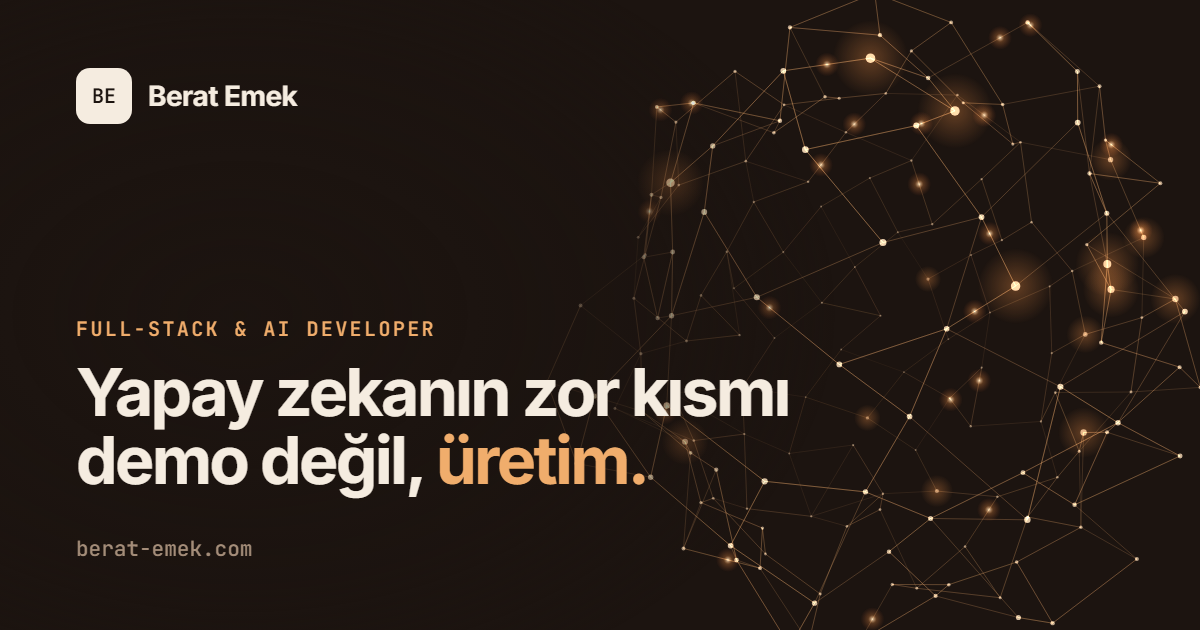
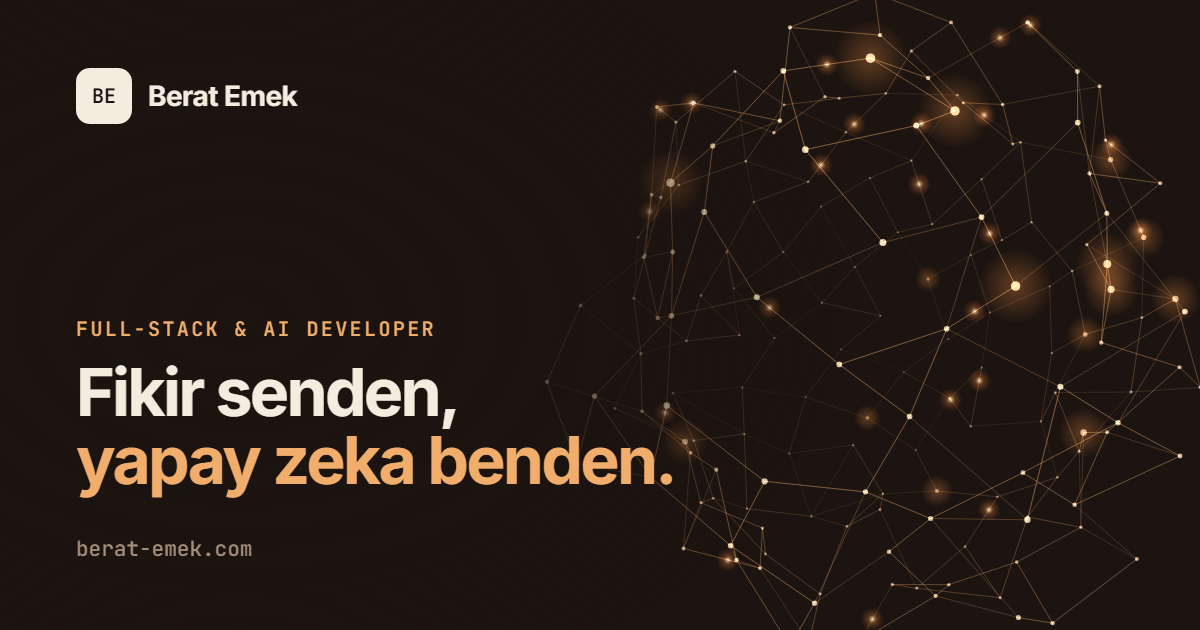
feat: yeni ana başlık 'Fikir senden, yapay zeka benden.'
- 10 dilde başlık, giriş metni ve iletişim başlığı birlikte çalışma davetine göre yazıldı
- Ana düğme 'Birlikte çalışalım' → iletişim bölümü
- Meta açıklamaları ve paylaşım görseli güncellendi
- Geniş ekranda vurgulu kısım bölünmeden alt satıra geçer; dar telefonda LinkedIn düğmesi ikon

Changed region(s): [[0.0617, 0.573, 0.6783, 0.8143]]

diff --git a/src/i18n/translations.js b/src/i18n/translations.js
@@ -32,12 +32,13 @@ export const DICT = {
     hero: {
       role: ROLE,
       latest: "Yeni yazı",
-      headline: "Yapay zekanın zor kısmı demo değil, üretim.",
-      accent: "üretim",
-      intro: "VizioWise'da, fabrikaların ERP'den SCADA'ya dağınık verisini tek bir yapay zeka katmanında sorgulanabilir hale getiren Morf'u geliştiriyorum. Burada sahada öğrendiklerimi yazıyorum: neyin gerçekten çalıştığını ve neyin yalnızca demoda iyi göründüğünü.",
+      headline: "Fikir senden, yapay zeka benden.",
+      accent: "yapay zeka benden",
+      intro: "Dil modelleri, ajanlar ve otomasyonla web'den kurumsal sistemlere uzanan yapay zeka ürünleri geliştiriyorum. Şu an VizioWise AI'da Morf üzerinde çalışıyorum; aklında bir fikir varsa, birlikte kuralım.",
       ctaPosts: "Yazıları oku",
       ctaLinkedin: "LinkedIn'de takip et",
       scroll: "Aşağı kaydır",
+      ctaWork: "Birlikte çalışalım",
     },
     caps: {
       kicker: "01 — Odak",
@@ -74,8 +75,8 @@ export const DICT = {
     },
     contact: {
       kicker: "05 — İletişim",
-      title: "Zor bir problemin varsa konuşalım.",
-      accent: "konuşalım",
+      title: "Fikrin hazırsa başlayalım.",
+      accent: "başlayalım",
       text: "Kurumsal yapay zeka, ajan sistemleri ya da yazılardan biri hakkında yazabilirsin. Kısa ve net mesajlara daha hızlı dönüyorum.",
     },
     blog: {
@@ -121,12 +122,13 @@ export const DICT = {
     hero: {
       role: ROLE,
       latest: "New post",
-      headline: "The hard part of AI isn't the demo. It's production.",
-      accent: "production",
-      intro: "At VizioWise I build Morf, an enterprise AI layer that makes factory data, scattered from ERP to SCADA, queryable in one place. Here I write down what I learn in the field: what actually works, and what only looks good in a demo.",
+      headline: "You bring the idea. I bring the AI.",
+      accent: "I bring the AI",
+      intro: "I build AI products with language models, agents and automation, from the web to enterprise systems. Right now I'm working on Morf at VizioWise AI; if you have an idea, let's build it together.",
       ctaPosts: "Read the writing",
       ctaLinkedin: "Follow on LinkedIn",
       scroll: "Scroll",
+      ctaWork: "Let's work together",
     },
     caps: {
       kicker: "01 — Focus",
@@ -163,8 +165,8 @@ export const DICT = {
     },
     contact: {
       kicker: "05 — Contact",
-      title: "Got a hard problem? Let's talk.",
-      accent: "Let's talk",
+      title: "If your idea is ready, let's start.",
+      accent: "let's start",
       text: "Write to me about enterprise AI, agent systems or any of the posts. Short, clear messages get faster replies.",
     },
     blog: {
@@ -210,12 +212,13 @@ export const DICT = {
     hero: {
       role: ROLE,
       latest: "Neuer Beitrag",
-      headline: "Das Schwierige an KI ist nicht die Demo, sondern die Produktion.",
-      accent: "die Produktion",
-      intro: "Bei VizioWise entwickle ich Morf, eine KI-Schicht für Unternehmen, die verstreute Fabrikdaten von ERP bis SCADA an einem Ort abfragbar macht. Hier schreibe ich auf, was ich in der Praxis lerne: was wirklich funktioniert und was nur in der Demo gut aussieht.",
+      headline: "Du bringst die Idee, ich die KI.",
+      accent: "ich die KI",
+      intro: "Ich entwickle KI-Produkte mit Sprachmodellen, Agenten und Automatisierung – vom Web bis zu Unternehmenssystemen. Derzeit arbeite ich bei VizioWise AI an Morf; wenn du eine Idee hast, bauen wir sie gemeinsam.",
       ctaPosts: "Beiträge lesen",
       ctaLinkedin: "Auf LinkedIn folgen",
       scroll: "Scrollen",
+      ctaWork: "Lass uns zusammenarbeiten",
     },
     caps: {
       kicker: "01 — Fokus",
@@ -252,8 +255,8 @@ export const DICT = {
     },
     contact: {
       kicker: "05 — Kontakt",
-      title: "Ein schwieriges Problem? Lass uns reden.",
-      accent: "Lass uns reden",
+      title: "Wenn deine Idee steht, legen wir los.",
+      accent: "legen wir los",
       text: "Schreib mir zu KI im Unternehmen, Agentensystemen oder einem der Beiträge. Kurze, klare Nachrichten beantworte ich schneller.",
     },
     blog: {
@@ -307,12 +310,13 @@ export const DICT = {
     hero: {
       role: ROLE,
       latest: "Nouvel article",
-      headline: "Le plus dur avec l'IA, ce n'est pas la démo. C'est la production.",
-      accent: "la production",
-      intro: "Chez VizioWise, je développe Morf, une couche d'IA d'entreprise qui rend interrogeables en un seul endroit les données d'usine dispersées, de l'ERP au SCADA. J'écris ici ce que j'apprends sur le terrain : ce qui marche vraiment, et ce qui n'a l'air bien qu'en démo.",
+      headline: "L'idée vient de toi, l'IA vient de moi.",
+      accent: "l'IA vient de moi",
+      intro: "Je développe des produits d'IA avec des modèles de langage, des agents et de l'automatisation, du web aux systèmes d'entreprise. Je travaille actuellement sur Morf chez VizioWise AI ; si tu as une idée, construisons-la ensemble.",
       ctaPosts: "Lire les articles",
       ctaLinkedin: "Suivre sur LinkedIn",
       scroll: "Défiler",
+      ctaWork: "Travaillons ensemble",
     },
     caps: {
       kicker: "01 — Focus",
@@ -349,8 +353,8 @@ export const DICT = {
     },
     contact: {
       kicker: "05 — Contact",
-      title: "Un problème difficile ? Parlons-en.",
-      accent: "Parlons-en",
+      title: "Si ton idée est prête, commençons.",
+      accent: "commençons",
       text: "Écris-moi au sujet de l'IA en entreprise, des systèmes d'agents ou d'un des articles. Les messages courts et clairs reçoivent des réponses plus rapides.",
     },
     blog: {
@@ -404,12 +408,13 @@ export const DICT = {
     hero: {
       role: ROLE,
       latest: "Nuevo artículo",
-      headline: "Lo difícil de la IA no es la demo. Es la producción.",
-      accent: "la producción",
-      intro: "En VizioWise desarrollo Morf, una capa de IA empresarial que permite consultar en un solo lugar los datos de fábrica dispersos, del ERP al SCADA. Aquí escribo lo que aprendo en el terreno: lo que de verdad funciona y lo que solo luce bien en una demo.",
+      headline: "Tú pones la idea, yo pongo la IA.",
+      accent: "yo pongo la IA",
+      intro: "Desarrollo productos de IA con modelos de lenguaje, agentes y automatización, desde la web hasta sistemas empresariales. Ahora trabajo en Morf en VizioWise AI; si tienes una idea, construyámosla juntos.",
       ctaPosts: "Leer los artículos",
       ctaLinkedin: "Seguir en LinkedIn",
       scroll: "Desplázate",
+      ctaWork: "Trabajemos juntos",
     },
     caps: {
       kicker: "01 — Enfoque",
@@ -446,8 +451,8 @@ export const DICT = {
     },
     contact: {
       kicker: "05 — Contacto",
-      title: "¿Tienes un problema difícil? Hablemos.",
-      accent: "Hablemos",
+      title: "Si tu idea está lista, empecemos.",
+      accent: "empecemos",
       text: "Escríbeme sobre IA empresarial, sistemas de agentes o cualquiera de los artículos. Los mensajes breves y claros reciben respuesta antes.",
     },
     blog: {
@@ -501,12 +506,13 @@ export const DICT = {
     hero: {
       role: ROLE,
       latest: "Nuovo articolo",
-      headline: "La parte difficile dell'IA non è la demo. È la produzione.",
-      accent: "la produzione",
-      intro: "In VizioWise sviluppo Morf, un livello di IA aziendale che rende interrogabili in un unico punto i dati di fabbrica sparsi, dall'ERP allo SCADA. Qui scrivo ciò che imparo sul campo: cosa funziona davvero e cosa sembra buono solo in una demo.",
+      headline: "Tu porti l'idea, io porto l'IA.",
+      accent: "io porto l'IA",
+      intro: "Sviluppo prodotti di IA con modelli linguistici, agenti e automazione, dal web ai sistemi aziendali. Ora lavoro a Morf in VizioWise AI; se hai un'idea, costruiamola insieme.",
       ctaPosts: "Leggi gli articoli",
       ctaLinkedin: "Seguimi su LinkedIn",
       scroll: "Scorri",
+      ctaWork: "Lavoriamo insieme",
     },
     caps: {
       kicker: "01 — Focus",
@@ -543,8 +549,8 @@ export const DICT = {
     },
     contact: {
       kicker: "05 — Contatti",
-      title: "Hai un problema difficile? Parliamone.",
-      accent: "Parliamone",
+      title: "Se la tua idea è pronta, iniziamo.",
+      accent: "iniziamo",
       text: "Scrivimi di IA aziendale, sistemi di agenti o di uno degli articoli. Ai messaggi brevi e chiari rispondo prima.",
     },
     blog: {
@@ -590,12 +596,13 @@ export const DICT = {
     hero: {
       role: ROLE,
       latest: "Novo artigo",
-      headline: "A parte difícil da IA não é a demo. É a produção.",
-      accent: "a produção",
-      intro: "Na VizioWise eu desenvolvo o Morf, uma camada de IA corporativa que torna consultáveis, em um só lugar, os dados de fábrica espalhados do ERP ao SCADA. Aqui escrevo o que aprendo na prática: o que realmente funciona e o que só parece bom numa demo.",
+      headline: "Você traz a ideia, eu trago a IA.",
+      accent: "eu trago a IA",
+      intro: "Desenvolvo produtos de IA com modelos de linguagem, agentes e automação, da web a sistemas corporativos. Hoje trabalho no Morf na VizioWise AI; se você tem uma ideia, vamos construí-la juntos.",
       ctaPosts: "Ler os artigos",
       ctaLinkedin: "Seguir no LinkedIn",
       scroll: "Role",
+      ctaWork: "Vamos trabalhar juntos",
     },
     caps: {
       kicker: "01 — Foco",
@@ -632,8 +639,8 @@ export const DICT = {
     },
     contact: {
       kicker: "05 — Contato",
-      title: "Tem um problema difícil? Vamos conversar.",
-      accent: "Vamos conversar",
+      title: "Se a sua ideia está pronta, vamos começar.",
+      accent: "vamos começar",
       text: "Escreva sobre IA corporativa, sistemas de agentes ou algum dos textos. Mensagens curtas e claras recebem resposta mais rápido.",
     },
     blog: {
@@ -679,12 +686,13 @@ export const DICT = {
     hero: {
       role: ROLE,
       latest: "Новая статья",
-      headline: "Самое сложное в ИИ — не демо, а продакшн.",
-      accent: "продакшн",
-      intro: "В VizioWise я разрабатываю Morf — корпоративный ИИ-слой, который делает разрозненные заводские данные, от ERP до SCADA, доступными для запросов в одном месте. Здесь я записываю то, чему учусь на практике: что действительно работает, а что хорошо выглядит только в демо.",
+      headline: "Идея — ваша, ИИ — мой.",
+      accent: "ИИ — мой",
+      intro: "Я создаю ИИ-продукты на основе языковых моделей, агентов и автоматизации — от веба до корпоративных систем. Сейчас работаю над Morf в VizioWise AI; если у вас есть идея, давайте воплотим её вместе.",
       ctaPosts: "Читать статьи",
       ctaLinkedin: "Подписаться в LinkedIn",
       scroll: "Листайте",
+      ctaWork: "Давайте работать вместе",
     },
     caps: {
       kicker: "01 — Фокус",
@@ -721,8 +729,8 @@ export const DICT = {
     },
     contact: {
       kicker: "05 — Контакты",
-      title: "Есть сложная задача? Давайте обсудим.",
-      accent: "Давайте обсудим",
+      title: "Если идея готова — начнём.",
+      accent: "начнём",
       text: "Пишите о корпоративном ИИ, агентных системах или о любой из статей. На короткие и ясные сообщения я отвечаю быстрее.",
     },
     blog: {
@@ -760,12 +768,13 @@ export const DICT = {
     hero: {
       role: ROLE,
       latest: "新文章",
-      headline: "AI 最难的部分不是演示，而是生产环境。",
-      accent: "生产环境",
-      intro: "我在 VizioWise 开发 Morf：一个企业级 AI 层，让工厂里从 ERP 到 SCADA 分散的数据可以在同一个地方查询。我在这里记录实践中学到的东西：哪些真正有效，哪些只是在演示里好看。",
+      headline: "你出想法，我出 AI。",
+      accent: "我出 AI",
+      intro: "我用语言模型、智能体和自动化打造 AI 产品，从网页到企业系统。目前我在 VizioWise AI 开发 Morf；如果你有想法，我们一起把它做出来。",
       ctaPosts: "阅读文章",
       ctaLinkedin: "在 LinkedIn 关注",
       scroll: "向下滚动",
+      ctaWork: "一起合作",
     },
     caps: {
       kicker: "01 — 专注",
@@ -785,7 +794,7 @@ export const DICT = {
       body: "我在 VizioWise 开发 Morf：一个企业级 AI 平台，让工业企业从 ERP 到 SCADA 分散的数据可以用自然语言查询，并接入自动化。我最感兴趣的，是让语言模型的回答在企业环境中变得可信的一切：正确的数据访问、工具设计、评测与成本。\n\n此前，我在 TÜBİTAK 2209-A 项目中研究了基于深度学习的肺音分类，在 Trendyol Datathon 中取得 0.903 的 F1 分数，我们团队在 TUA Astro 黑客松的 19 支队伍中排名第 6。这里的文章就是这些工作的笔记。",
       highlights: ["Morf — VizioWise 的企业级 AI 平台", "智能体、MCP 与工具调用设计", "深度学习研究 — TÜBİTAK 2209-A", "计算机工程 — 埃尔吉耶斯大学"],
     },
-    contact: { kicker: "05 — 联系", title: "有难题？我们聊聊。", accent: "我们聊聊", text: "欢迎就企业 AI、智能体系统或任何一篇文章与我联系。简短清晰的消息，我回复得更快。" },
+    contact: { kicker: "05 — 联系", title: "想法准备好了，就开始吧。", accent: "就开始吧", text: "欢迎就企业 AI、智能体系统或任何一篇文章与我联系。简短清晰的消息，我回复得更快。" },
     blog: { kicker: "博客", title: "文章", intro: "关于智能体、MCP、本地模型和企业 AI：我亲自尝试过、并在源头核实过的内容。", all: "全部", emptyTag: "该标签下暂无文章。", langNote: "文章以土耳其语撰写。", filter: "按标签筛选" },
     post: {
       listen: "收听（土耳其语）",
@@ -813,12 +822,13 @@ export const DICT = {
     hero: {
       role: ROLE,
       latest: "新着記事",
-      headline: "AIで難しいのはデモではなく、本番運用だ。",
-      accent: "本番運用",
-      intro: "VizioWiseで、工場のERPからSCADAまで散らばったデータを一か所で問い合わせられるようにする企業向けAIレイヤー「Morf」を開発しています。ここでは現場で学んだこと、つまり本当に機能するものと、デモでしか良く見えないものを書いています。",
+      headline: "アイデアはあなたに、AIは私に。",
+      accent: "AIは私に",
+      intro: "言語モデル、エージェント、自動化を使って、Webから企業システムまでAIプロダクトを開発しています。現在はVizioWise AIでMorfに取り組んでいます。アイデアがあれば、一緒に形にしましょう。",
       ctaPosts: "記事を読む",
       ctaLinkedin: "LinkedIn でフォロー",
       scroll: "スクロール",
+      ctaWork: "一緒に取り組みましょう",
     },
     caps: {
       kicker: "01 — フォーカス",
@@ -838,7 +848,7 @@ export const DICT = {
       body: "VizioWiseで、産業企業のERPからSCADAまで散在するデータを自然言語で問い合わせ、自動化につなげられるようにする企業向けAIプラットフォーム「Morf」を開発しています。最も関心があるのは、企業環境で言語モデルの回答を信頼できるものにするすべての要素、つまり適切なデータへのアクセス、ツール設計、評価、コストです。\n\nこれまでにTÜBİTAK 2209-Aの枠組みで深層学習による肺音分類の研究を行い、Trendyol DatathonではF1スコア0.903を達成し、TUA Astro Hackathonではチームで19チーム中6位になりました。ここに載せている記事は、こうした仕事から生まれたノートです。",
       highlights: ["Morf — VizioWiseの企業向けAIプラットフォーム", "エージェント、MCP、ツール呼び出し設計", "深層学習研究 — TÜBİTAK 2209-A", "コンピュータ工学 — エルジエス大学"],
     },
-    contact: { kicker: "05 — お問い合わせ", title: "難しい課題がありますか？話しましょう。", accent: "話しましょう", text: "企業向けAI、エージェントシステム、または記事についてお気軽にご連絡ください。短く明確なメッセージほど早く返信できます。" },
+    contact: { kicker: "05 — お問い合わせ", title: "アイデアが固まったら、始めましょう。", accent: "始めましょう", text: "企業向けAI、エージェントシステム、または記事についてお気軽にご連絡ください。短く明確なメッセージほど早く返信できます。" },
     blog: {
       kicker: "ブログ",
       title: "記事",

diff --git a/index.html b/index.html
@@ -18,7 +18,7 @@
     <!-- Primary Meta Tags -->
     <title>Berat Emek — Full-Stack &amp; AI Developer</title>
     <meta name="title" content="Berat Emek — Full-Stack &amp; AI Developer" />
-    <meta name="description" content="Berat Emek — Full-Stack &amp; AI Developer. VizioWise'da kurumsal yapay zeka platformu Morf'u geliştiriyor; ajanlar, MCP ve üretimde çalışan yapay zeka üzerine yazıyor." />
+    <meta name="description" content="Berat Emek — Full-Stack &amp; AI Developer. Dil modelleri, ajanlar ve otomasyonla yapay zeka ürünleri geliştiriyor; şu an VizioWise AI'da Morf üzerinde çalışıyor." />
     <meta name="keywords" content="Berat Emek, beratemek, AI developer, yapay zeka geliştirici, full-stack AI developer, LLM, yapay zeka ajanları, yapay zeka haberleri, yapay zeka gündemi, Türkiye" />
     <meta name="author" content="Berat Emek" />
     <meta name="robots" content="index, follow, max-image-preview:large, max-snippet:-1" />
@@ -28,7 +28,7 @@
     <meta property="og:type" content="website" />
     <meta property="og:url" content="https://berat-emek.com/" />
     <meta property="og:title" content="Berat Emek — Full-Stack &amp; AI Developer" />
-    <meta property="og:description" content="Yapay zekanın zor kısmı demo değil, üretim. Ajanlar, MCP ve kurumsal yapay zeka üzerine sahadan notlar." />
+    <meta property="og:description" content="Fikir senden, yapay zeka benden. Dil modelleri, ajanlar ve otomasyonla yapay zeka ürünleri." />
     <meta property="og:image" content="https://berat-emek.com/og-cover.png" />
     <meta property="og:image:width" content="1200" />
     <meta property="og:image:height" content="630" />
@@ -39,7 +39,7 @@
     <!-- Twitter -->
     <meta name="twitter:card" content="summary_large_image" />
     <meta name="twitter:title" content="Berat Emek — Full-Stack &amp; AI Developer" />
-    <meta name="twitter:description" content="Yapay zekanın zor kısmı demo değil, üretim." />
+    <meta name="twitter:description" content="Fikir senden, yapay zeka benden." />
     <meta name="twitter:image" content="https://berat-emek.com/og-cover.png" />
 
     <!-- Favicon -->
@@ -64,7 +64,7 @@
         "url": "https://berat-emek.com",
         "image": "https://berat-emek.com/berat.jpg",
         "jobTitle": "Full-Stack & AI Developer",
-        "description": "Full-Stack & AI Developer. VizioWise'da kurumsal yapay zeka platformu Morf'u geliştiriyor; ajanlar, MCP ve üretimde çalışan yapay zeka üzerine yazıyor.",
+        "description": "Full-Stack & AI Developer. Dil modelleri, ajanlar ve otomasyonla yapay zeka ürünleri geliştiriyor; şu an VizioWise AI'da Morf üzerinde çalışıyor.",
         "alumniOf": {
           "@type": "CollegeOrUniversity",
           "name": "Erciyes Üniversitesi",

diff --git a/src/pages/HomePage.jsx b/src/pages/HomePage.jsx
@@ -147,11 +147,11 @@ export default function HomePage() {
               {leadRest && <span className="lead-rest">{/[。！？]$/.test(leadFirst) ? '' : ' '}{leadRest}</span>}
             </p>
             <div className="hero-actions fade-in" style={{ '--i': 8 }}>
-              <Link to="/blog" className="s-btn accent">
-                {t('hero.ctaPosts')} <ArrowRight size={17} />
-              </Link>
+              <a href="#iletisim" className="s-btn accent">
+                {t('hero.ctaWork')} <ArrowRight size={17} />
+              </a>
               {linkedin && (
-                <a href={linkedin.href} target="_blank" rel="noreferrer" className="s-btn ghost">
+                <a href={linkedin.href} target="_blank" rel="noreferrer" className="s-btn ghost" aria-label={t('hero.ctaLinkedin')}>
                   <LinkedinIcon size={16} />
                   <span className="lbl-long">{t('hero.ctaLinkedin')}</span>
                   <span className="lbl-short">LinkedIn</span>

diff --git a/src/index.css b/src/index.css
@@ -692,6 +692,12 @@ body.admin-mode #root {
   font-style: normal;
   color: var(--accent-ink);
 }
+/* Geniş ekranda vurgulu kısım bölünmeden bir bütün olarak alt satıra geçsin */
+@media (min-width: 701px) {
+  .hero h1 em {
+    display: inline-block;
+  }
+}
 .word {
   display: inline-block;
   opacity: 0;
@@ -2169,5 +2175,19 @@ body {
   .contact-icon {
     width: 38px;
     height: 38px;
+  }
+}
+
+/* Dar telefonlarda ana düğmeye yer aç: LinkedIn yalnızca ikon */
+@media (max-width: 400px) {
+  .hero-actions {
+    grid-template-columns: minmax(0, 1fr) auto;
+  }
+  .hero-actions .s-btn.ghost {
+    width: 50px;
+    padding: 0;
+  }
+  .hero-actions .lbl-short {
+    display: none;
   }
 }
